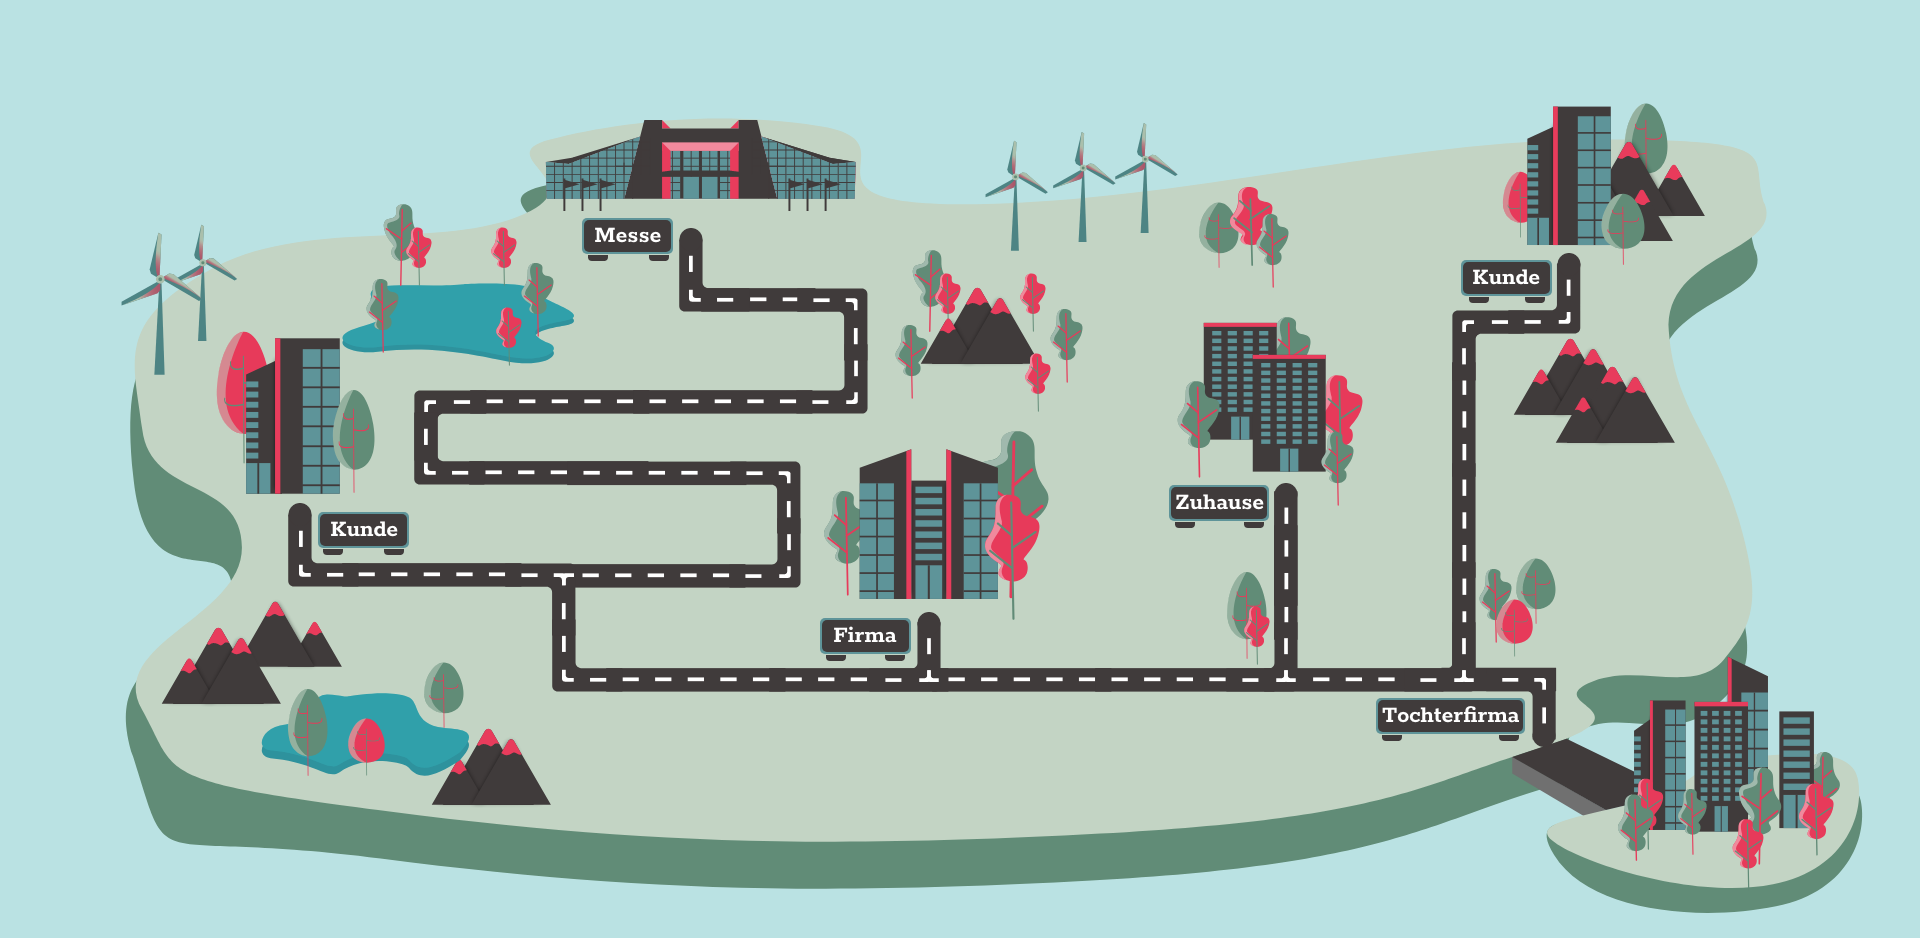
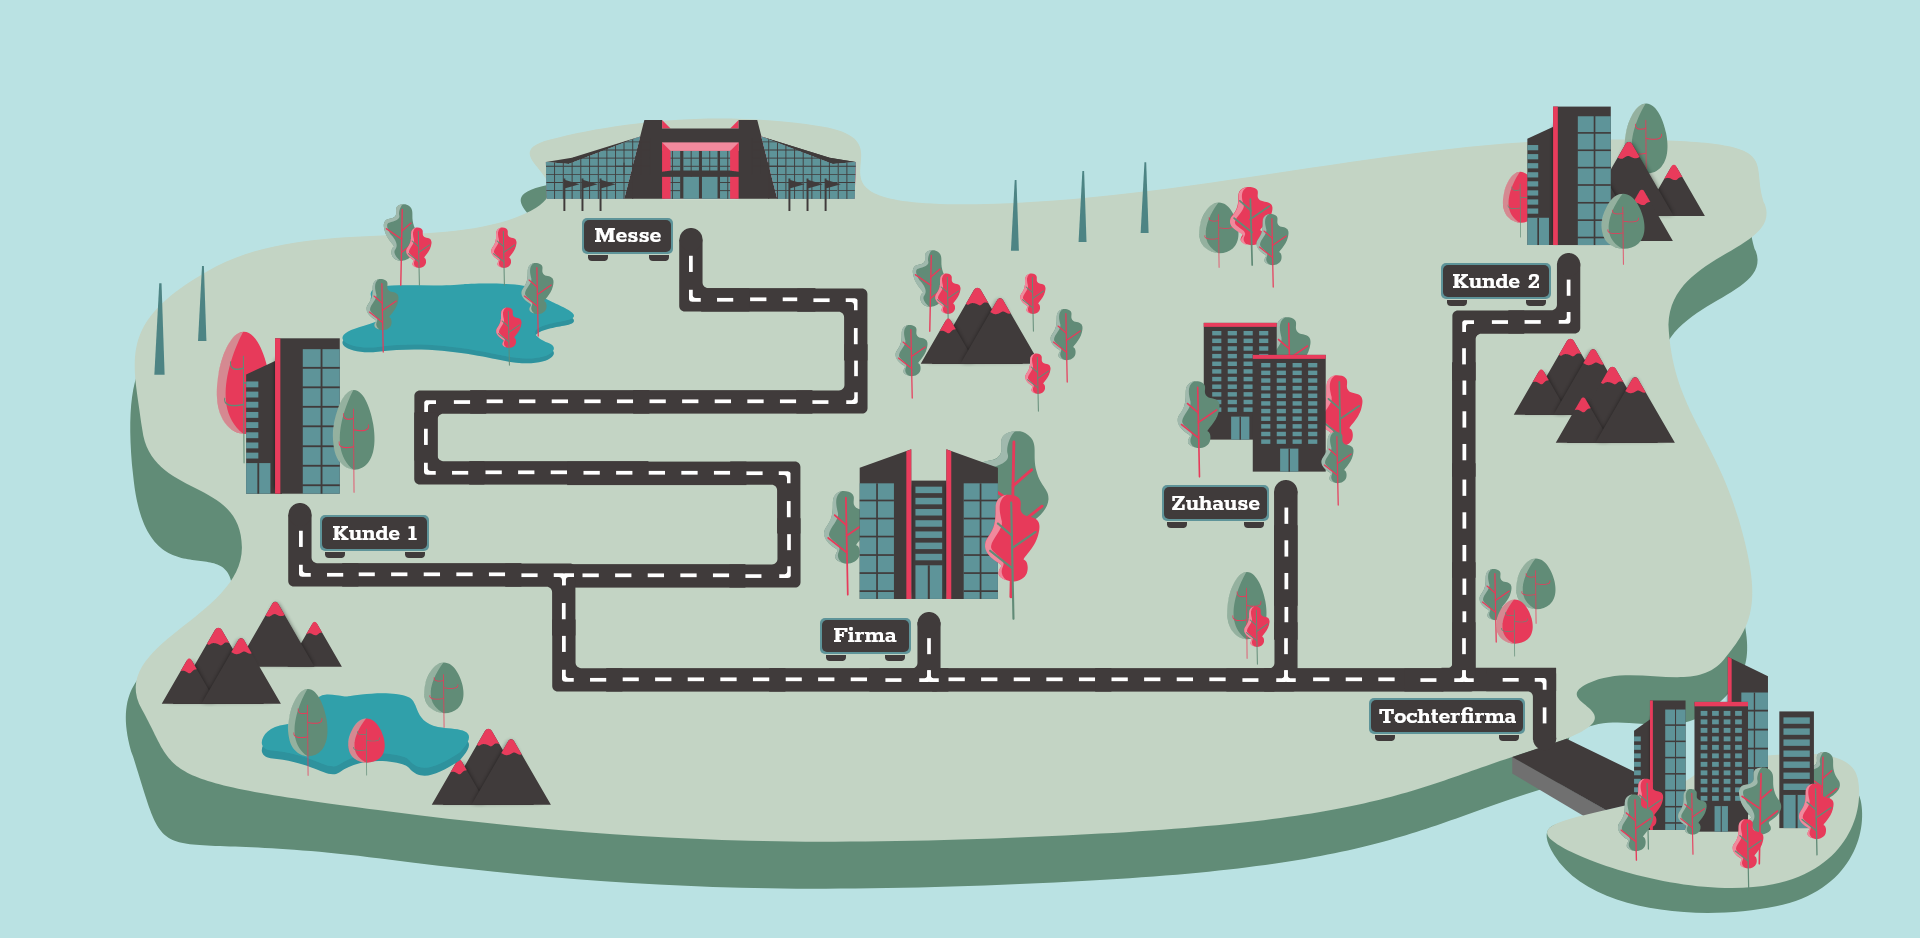
added rotating windmills, update looks of assignments and evaluation

diff --git a/js/script.js b/js/script.js
@@ -8,6 +8,7 @@ import User from "./user.js";
 import StatusBar from "./statusBar.js";
 import ToDo from "./toDo.js";
 import Assignment from "./assignment.js";
+import Windmill from "./windmill.js";
 
 // ==== VARIABLES ====
 let scaleX = windowWidth / 1536;
@@ -32,6 +33,7 @@ let productivityWhole = 0;
 let textProductivity;
 let environmentValueKG = 0;
 let textEnvironment;
+let textCosts;
 
 let indexOfChosenMobilityOption;
 let startCoolDown = false;
@@ -155,8 +157,15 @@ let chosenGenderImage = sheImage;
 let resultI;
 let evaluateProductivity;
 let evaluateEnvironment;
+let evaluateCosts;
 let buttonStartTimeAgain;
 let buttonReload;
+
+// windmill
+let windmillArray = [];
+let windmillX;
+let windmillY;
+let windmillSize;
 
 // let gameStarted;
 
@@ -341,7 +350,7 @@ function gameSetup() {
 
   buttonReload = new BasicObjectText(
     windowWidth / 2 - 150 * scaleX,
-    350 * scaleY,
+    370 * scaleY,
     300 * scaleX,
     50 * scaleY,
     10,
@@ -352,6 +361,44 @@ function gameSetup() {
   );
 
   buttonReload.setFont(segeoUiFont);
+
+  // windmill
+  for (let i = 0; i < 5; i++) {
+    if (i === 0) {
+      windmillX = 163;
+      windmillY = 215;
+      windmillSize = 70;
+    }
+    if (i === 1) {
+      windmillX = 130;
+      windmillY = 225;
+      windmillSize = 80;
+    }
+    if (i === 2) {
+      windmillX = 813;
+      windmillY = 145;
+      windmillSize = 65;
+    }
+    if (i === 3) {
+      windmillX = 867;
+      windmillY = 134;
+      windmillSize = 65;
+    }
+    if (i === 4) {
+      windmillX = 916;
+      windmillY = 130;
+      windmillSize = 65;
+    }
+    windmillArray[i] = new Windmill(
+      windmillX,
+      windmillY,
+      windmillSize,
+      windmillSize,
+      windmillImage,
+      scaleX,
+      scaleY
+    );
+  }
 
   // gameStarted = true;
 }
@@ -512,7 +559,7 @@ function setTime() {
     hourTimer++;
   }
 
-  if (hourTimer === 20) {
+  if (hourTimer === 7) {
     showResult = true;
     minuteTimer = 0;
     hourTimer = 6;
@@ -573,6 +620,7 @@ function setTime() {
         25 * scaleX
       );
       evaluateProductivity.setFont(segeoUiFont);
+      evaluateProductivity.setTextColor("grey");
 
       // load new assignments for next day
       assignmentArray = [];
@@ -586,6 +634,39 @@ function setTime() {
       environmentValueKG = environmentValue / 1000;
       productivityWhole = productivityWhole / 3;
       productivityWhole = productivityWhole / 5;
+
+      // evaluation of costs
+      if (maximalCosts <= 1000) {
+        textCosts =
+          "Du hast " + maximalCosts + "€ ausgegeben. Das ist relativ wenig.";
+      }
+
+      if (maximalCosts > 1000 && maximalCosts <= 2000) {
+        textCosts =
+          "Du hast " +
+          maximalCosts +
+          "€ ausgegeben. Das liegt etwa im Durchschnitt.";
+      }
+
+      if (maximalCosts > 2000 && maximalCosts <= 4000) {
+        textCosts =
+          "Du hast " +
+          maximalCosts +
+          "€ ausgegeben. Das ist ziemlich viel! \nAchte nächstes Mal darauf, günstigere Optionen zu wählen. ";
+      }
+
+      evaluateCosts = new BasicObjectText(
+        windowWidth / 2 - 100,
+        270 * scaleY,
+        200,
+        50,
+        20,
+        "rgba(0,0,0,0)",
+        textCosts,
+        25 * scaleX
+      );
+      evaluateCosts.setFont(segeoUiFont);
+      evaluateCosts.setTextColor("grey");
 
       // evaluation of environmental value
       if (environmentValueKG <= 300) {
@@ -620,26 +701,27 @@ function setTime() {
         25 * scaleX
       );
       evaluateEnvironment.setFont(segeoUiFont);
+      evaluateEnvironment.setTextColor("grey");
 
       // evaluation of whole productivity
       if (productivityWhole <= 20) {
         textProductivity =
-          "Deine Mitarbeiter sind heute nicht produktiv gewesen. \nWas kannst du ändern, um die Produktivität morgen zu steigern?";
+          "Deine Mitarbeiter sind insgesamt nicht produktiv gewesen. \nDas kann die Zukunft deines Unternehmens gefährden!";
       }
 
       if (productivityWhole > 20 && productivityWhole <= 40) {
         textProductivity =
-          "Deine Mitarbeiter sind heute eher nicht produktiv gewesen. \nWas kannst du ändern, um die Produktivität morgen zu steigern?";
+          "Deine Mitarbeiter sind insgesamt eher nicht produktiv gewesen. \nDas kann die Zukunft deines Unternehmens gefährden!";
       }
 
       if (productivityWhole > 40 && productivityWhole <= 60) {
         textProductivity =
-          "Deine Mitarbeiter sind recht produktiv gewesen! \nAber kannst du eventuell noch etwas ändern, um die Produktivität morgen weiter zu steigern?";
+          "Deine Mitarbeiter sind insgesamt recht produktiv gewesen! \nDas hilft dir zwar, die Zukunft deines Unternehmens zu sichern, aber es ist noch Luft nach oben!";
       }
 
       if (productivityWhole > 60 && productivityWhole <= 80) {
         textProductivity =
-          "Sehr gut, deine Mitarbeiter sind sehr produktiv gewesen! \nAber ein bisschen Luft nach oben hat dein Unternehmen noch.";
+          "Sehr gut, deine Mitarbeiter sind insgesamt sehr produktiv gewesen! \nDas hilft dir, die Zukunft deines Unternehmens zu sichern";
       }
 
       if (productivityWhole > 80 && productivityWhole <= 100) {
@@ -658,6 +740,7 @@ function setTime() {
         25 * scaleX
       );
       evaluateProductivity.setFont(segeoUiFont);
+      evaluateProductivity.setTextColor("grey");
     }
   }
 
@@ -673,14 +756,30 @@ function setTime() {
   // write/update assignment
   function updateAssignment(assignmentTexts) {
     for (let i = 0; i < assignmentTexts.length; i++) {
-      assignmentArray[i] = new Assignment(
-        550,
-        200 + i * 70,
-        50,
-        50,
-        scaleX,
-        scaleY
-      );
+      if (i <= 5) {
+        assignmentArray[i] = new Assignment(
+          windowWidth / 2 - 280 * scaleX,
+          windowHeight / 2 - 160 * scaleY + i * 55 * scaleY,
+          40 * scaleX,
+          40 * scaleY,
+          scaleX,
+          scaleY,
+          20 * scaleX
+        );
+      }
+
+      if (i > 5) {
+        assignmentArray[i] = new Assignment(
+          windowWidth / 2 + 40 * scaleX,
+          windowHeight / 2 - 160 * scaleY + (i - 6) * 55 * scaleY,
+          40 * scaleX,
+          40 * scaleY,
+          scaleX,
+          scaleY,
+          20 * scaleX
+        );
+      }
+
       assignmentArray[i].setTextAssignments(split(assignmentTexts[i], ";")[1]);
       assignmentArray[i].setCompanyIndex(split(assignmentTexts[i], ";")[0]);
       assignmentArray[i].setDurationOfAssignment(
@@ -889,6 +988,12 @@ function draw() {
     day.setText(timerDay);
     imageMode(CORNER);
 
+    // windmill
+    for (let windmillObject of windmillArray) {
+      windmillObject.rotateWindmill();
+      windmillObject.display();
+    }
+
     // hitBoxes
     for (let arrayObject of hitBoxArray) {
       arrayObject.display();
@@ -954,7 +1059,7 @@ function draw() {
     timerHeadBobbing++;
     if (timerHeadBobbing >= 320) {
       if (headBobbing) {
-        if (facesArray[0].y >= 15) {
+        if (facesArray[0].y >= 15 * scaleY) {
           headDown = false;
         }
         if (facesArray[0].y <= facesArray[0].defaultY) {
@@ -1008,6 +1113,7 @@ function draw() {
     if (timerDay === 4) {
       buttonReload.display();
       evaluateEnvironment.display();
+      evaluateCosts.display();
     }
   }
 }

diff --git a/js/assignment.js b/js/assignment.js
@@ -1,7 +1,7 @@
 import BasicObjectImage from "./basicObjectImage.js";
 
 export default class Assignment extends BasicObjectImage {
-  constructor(x, y, width, height, scaleX, scaleY) {
+  constructor(x, y, width, height, scaleX, scaleY, textSize) {
     super(x, y, width, height, image);
     this.scaleX = scaleX;
     this.scaleY = scaleY;
@@ -13,6 +13,7 @@ export default class Assignment extends BasicObjectImage {
     this.companyIndex = 0;
     this.assignmentDone = false;
     this.durationAssignment = 0;
+    this.textSize = textSize;
   }
 
   display() {
@@ -30,10 +31,12 @@ export default class Assignment extends BasicObjectImage {
     );
 
     textFont(this.font);
+    textAlign(LEFT);
+    textSize(this.textSize);
     text(
       this.text,
-      this.x * this.scaleX + 100,
-      this.y * this.scaleY + (this.width / 2) * this.scaleY
+      this.x * this.scaleX + 70 * this.scaleX,
+      this.y * this.scaleY + (this.width / 2) * this.scaleY - 5 * this.scaleY
     );
   }
 

diff --git a/js/windmill.js b/js/windmill.js
@@ -1,0 +1,42 @@
+import BasicObjectImage from "./basicObjectImage.js";
+
+export default class Windmill extends BasicObjectImage {
+  constructor(x, y, width, height, image, scaleX, scaleY) {
+    super(x, y, width, height, image);
+    this.rotation = 0;
+    this.speed = 0;
+    this.setSpeedAndAngle = true;
+    this.scaleX = scaleX;
+    this.scaleY = scaleY;
+  }
+
+  display() {
+    push();
+    imageMode(CENTER);
+    angleMode(DEGREES);
+    translate(this.x * this.scaleX, this.y * this.scaleY);
+    rotate(this.rotation);
+    image(
+      this.image,
+      0,
+      0,
+      this.width * this.scaleX,
+      this.height * this.scaleY
+    );
+    pop();
+  }
+
+  rotateWindmill() {
+    if (this.setSpeedAndAngle) {
+      this.speed = random(0, 2);
+      this.rotate = Math.random(0, 361);
+      this.setSpeedAndAngle = false;
+    }
+
+    this.rotation += this.speed;
+
+    if (this.rotation > 360) {
+      this.rotation = 0;
+    }
+  }
+}

diff --git a/js/mobilityOption.js b/js/mobilityOption.js
@@ -17,7 +17,6 @@ export default class MobilityOption extends BasicObjectText {
 
     this.environmentalInfluence = environmentalInfluence;
 
-    // this.satisfactionInfluence = satisfactionInfluence;
     this.hidden = true;
     this.selected = false;
     this.duration = 0;
@@ -25,10 +24,6 @@ export default class MobilityOption extends BasicObjectText {
   }
 
   display() {
-    // if (this.selected === true) {
-    //   this.hidden = true;
-    // }
-
     if (!this.hidden) {
       push();
 
@@ -44,6 +39,5 @@ export default class MobilityOption extends BasicObjectText {
 
   clicked() {
     this.selected = true;
-    //   this.selected = false;
   }
 }
